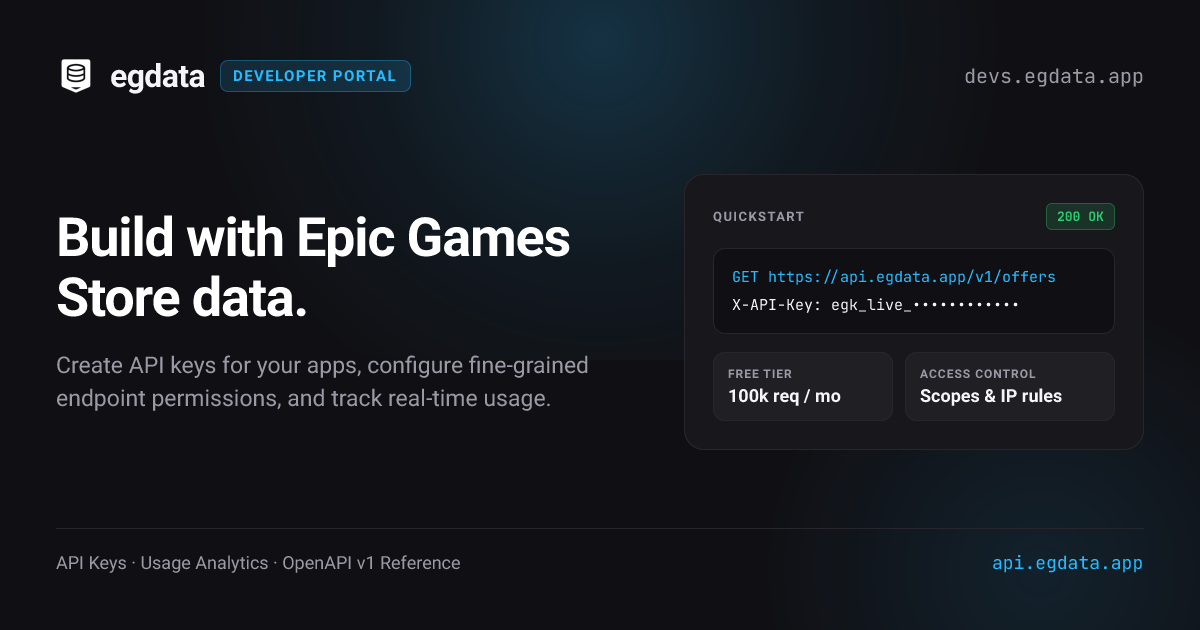
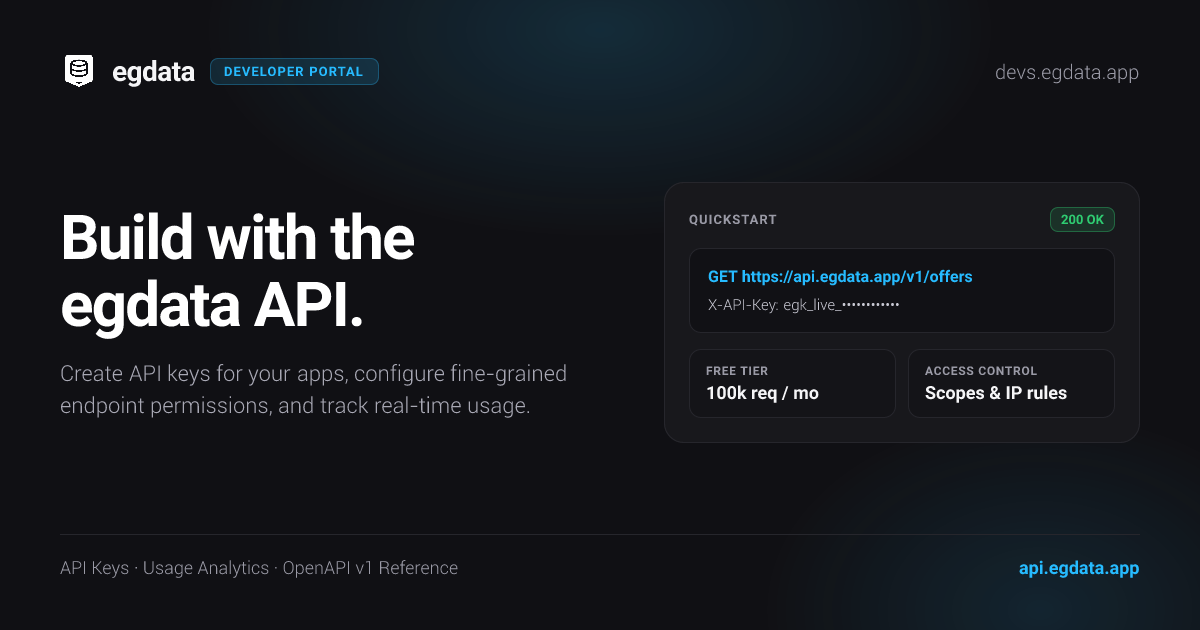
chore(dashboard): replace Epic Games references in SEO and OG image with egdata API

diff --git a/dashboard/index.html b/dashboard/index.html
@@ -3,10 +3,10 @@
   <head>
     <meta charset="UTF-8" />
     <meta name="viewport" content="width=device-width, initial-scale=1.0" />
-    <title>egdata Developer Portal — Epic Games Store API &amp; Keys</title>
+    <title>egdata Developer Portal — API Keys &amp; Usage</title>
     <meta
       name="description"
-      content="Build with Epic Games Store data. Create API keys, configure endpoint permissions, inspect usage analytics, and explore the v1 API reference."
+      content="Build with the egdata API. Create API keys, configure endpoint permissions, inspect usage analytics, and explore the v1 API reference."
     />
     <meta name="theme-color" content="#101014" />
     <meta name="robots" content="index, follow" />
@@ -15,11 +15,11 @@
     <meta property="og:site_name" content="egdata Developer Portal" />
     <meta
       property="og:title"
-      content="egdata Developer Portal — Epic Games Store API &amp; Keys"
+      content="egdata Developer Portal — API Keys &amp; Usage"
     />
     <meta
       property="og:description"
-      content="Build with Epic Games Store data. Create API keys, configure endpoint permissions, inspect usage analytics, and explore the v1 API reference."
+      content="Build with the egdata API. Create API keys, configure endpoint permissions, inspect usage analytics, and explore the v1 API reference."
     />
     <meta property="og:url" content="https://devs.egdata.app/" />
     <meta property="og:image" content="https://devs.egdata.app/og-image.png" />
@@ -28,21 +28,21 @@
     <meta property="og:image:height" content="630" />
     <meta
       property="og:image:alt"
-      content="egdata Developer Portal — Build with Epic Games Store data, API keys, permissions, and usage analytics."
+      content="egdata Developer Portal — Build with the egdata API, API keys, permissions, and usage analytics."
     />
     <meta name="twitter:card" content="summary_large_image" />
     <meta
       name="twitter:title"
-      content="egdata Developer Portal — Epic Games Store API &amp; Keys"
+      content="egdata Developer Portal — API Keys &amp; Usage"
     />
     <meta
       name="twitter:description"
-      content="Build with Epic Games Store data. Create API keys, configure endpoint permissions, inspect usage analytics, and explore the v1 API reference."
+      content="Build with the egdata API. Create API keys, configure endpoint permissions, inspect usage analytics, and explore the v1 API reference."
     />
     <meta name="twitter:image" content="https://devs.egdata.app/og-image.png" />
     <meta
       name="twitter:image:alt"
-      content="egdata Developer Portal — Build with Epic Games Store data, API keys, permissions, and usage analytics."
+      content="egdata Developer Portal — Build with the egdata API, API keys, permissions, and usage analytics."
     />
     <link rel="icon" type="image/png" href="https://cdn.egdata.app/logo_simple_white_clean.png" />
   </head>

diff --git a/dashboard/src/lib/seo.ts b/dashboard/src/lib/seo.ts
@@ -1,11 +1,10 @@
 import { findDoc } from "./docs/entries";
 
-export const HOMEPAGE_TITLE =
-  "egdata Developer Portal — Epic Games Store API & Keys";
+export const HOMEPAGE_TITLE = "egdata Developer Portal — API Keys & Usage";
 export const HOMEPAGE_DESCRIPTION =
-  "Build with Epic Games Store data. Create API keys, configure endpoint permissions, inspect usage analytics, and explore the v1 API reference.";
+  "Build with the egdata API. Create API keys, configure endpoint permissions, inspect usage analytics, and explore the v1 API reference.";
 export const HOMEPAGE_OG_ALT =
-  "egdata Developer Portal — Build with Epic Games Store data, API keys, permissions, and usage analytics.";
+  "egdata Developer Portal — Build with the egdata API, API keys, permissions, and usage analytics.";
 
 export type DashboardSeoMetadata = {
   title: string;
@@ -213,7 +212,7 @@ export function resolveDashboardSeo(
   return {
     title: "egdata Developer Portal — API Keys & Usage",
     description:
-      "Create API keys, manage access to Epic Games Store data, track usage, and request higher limits.",
+      "Create API keys, manage access to the egdata API, track usage, and request higher limits.",
     canonicalUrl: null,
     robots: "noindex, nofollow",
     includeOg: false,

diff --git a/dashboard/tests/seo.test.ts b/dashboard/tests/seo.test.ts
@@ -275,6 +275,17 @@ describe("dashboard homepage OG image and per-route SEO", () => {
     expect(html).toContain(
       '<meta name="twitter:image" content="https://devs.egdata.app/og-image.png" />',
     );
+    expect(html).toContain("egdata API");
+    expect(html).not.toMatch(/epic\s*games/i);
+    expect(indexHtml).toContain("egdata API");
+    expect(indexHtml).not.toMatch(/epic\s*games/i);
+  });
+
+  it("omits Epic Games references from fallback SEO metadata", () => {
+    const privateSeo = resolveDashboardSeo("/keys", "https://devs.egdata.app");
+    expect(privateSeo.description).toContain("egdata API");
+    expect(privateSeo.title).not.toMatch(/epic\s*games/i);
+    expect(privateSeo.description).not.toMatch(/epic\s*games/i);
   });
 
   it("serves indexable route-specific SEO without homepage OG tags on docs and problems", async () => {
